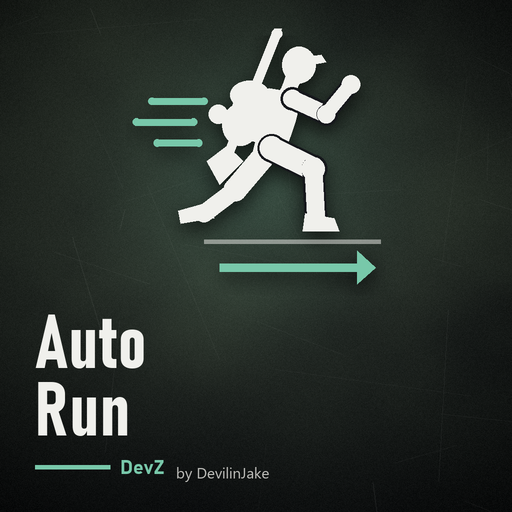
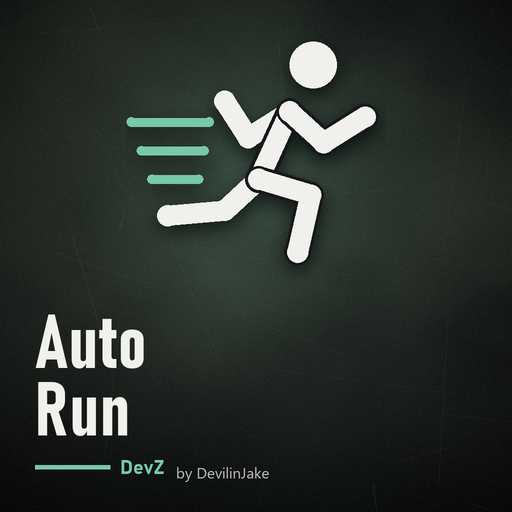
Auto Run: running-man sign on the Workshop card
Replaces the survivor silhouette with a classic running-man pictogram
drawn in the script: a big round head and limbs of one thick round-ended
stroke weight, leaning into a run to the right, with three mint speed
lines behind it, the longest on top. No backpack, rifle, key, ground
line or arrow. The torso and the two near limbs carry a thin dark
keyline so they stay apart from the limbs behind. Checked at full size
and at 160 px.

Changed region(s): [[0.25, 0.0312, 0.75, 0.5625]]

diff --git a/tools/workshop_preview.py b/tools/workshop_preview.py
@@ -415,72 +415,36 @@ class Pict:
         for x, y in zip(pts[::2], pts[1::2]):
             self.d.ellipse(self.p(x - r, y - r, x + r, y + r), fill=color)
 
-    def survivor(self, color, key=DARK, kl=0.9):
-        """A solid silhouette of a survivor sprinting to the right: backpack on, rifle slung
-        across the back. Filled polygons and round-capped strokes in one colour, drawn back to
-        front, so the body, pack and rifle melt into one outline. Only the two limbs nearest
-        the viewer (front arm, front leg) get a thin dark keyline, so they read as their own
-        shapes where they cross the body and the other leg (the keyline vanishes against the
-        dark card). Occupies roughly x 20..90, y 0..80."""
-        def poly(*pts, keyed=False):
-            if keyed:
-                self.d.polygon(self.p(*pts), fill=color, outline=key, width=self.lw(kl))
-            else:
-                self.d.polygon(self.p(*pts), fill=color)
-
-        def cap(pts, w, keyed=False):
+    def runner(self, color, key=DARK, w=8, kl=1.1):
+        """The classic running-man sign: a big round head and limbs of one thick stroke weight
+        with round ends, leaning into a run to the right. Each limb is one polyline (shoulder,
+        elbow, hand / hip, knee, foot) so its joint is a clean bend. Drawn back to front; the
+        torso and the two near limbs get a thin dark keyline so they stay apart from what is
+        behind them (it vanishes against the dark card). Occupies roughly x 24..88, y 10..82."""
+        def limb(pts, keyed=False):
             if keyed:
                 self.stroke(pts, key, w + 2 * kl)
             self.stroke(pts, color, w)
 
-        def ball(x, y, r, keyed=False):
-            if keyed:
-                self.d.ellipse(self.p(x - r - kl, y - r - kl, x + r + kl, y + r + kl), fill=key)
-            self.d.ellipse(self.p(x - r, y - r, x + r, y + r), fill=color)
-
-        # the rifle, behind everything: barrel and front sight up past the shoulder, the butt
-        # showing below the pack, just behind the hip
-        cap([38, 52, 58, 2], 4)                             # barrel and receiver
-        poly(56, 5, 59, 4, 60, -1, 57, 0)                   # front sight
-        poly(31, 51, 39, 45, 45, 51, 36, 60)                # stock
-        # back leg: pushing off, stretched out behind, boot low
-        cap([54, 48, 42, 62], 9)
-        cap([42, 62, 30, 71], 7)
-        poly(31, 67, 34, 73, 21, 75, 20, 70)                # boot, toe pointing back
-        # back arm: swung back, elbow behind the pack, fist out behind it
-        cap([57, 29, 47, 40], 6.5)
-        cap([47, 40, 37, 34], 5)
-        ball(35.5, 33, 3.6)
-        # the backpack: a rounded hump on the back that follows the lean
-        poly(43, 24, 55, 23, 54, 32, 52, 44, 39, 42, 40, 32)
-        self.d.ellipse(self.p(40, 20, 55, 31), fill=color)
-        self.d.ellipse(self.p(37, 29, 51, 45), fill=color)
-        # torso, leaning into the run (shoulders top right, hips lower left)
-        poly(55, 23, 68, 25, 65, 36, 61, 48, 49, 47, 52, 34)
-        # neck, head with a cap peak pointing the way
-        cap([64, 20, 62, 25], 6)
-        self.d.ellipse(self.p(60, 7, 73, 21), fill=color)
-        poly(61, 12, 75, 10, 77, 13, 61, 16)
-        # front leg: thigh driving up and forward, shin down, boot flat ahead
-        cap([56, 46, 72, 54], 9, keyed=True)
-        cap([72, 54, 73, 72], 7, keyed=True)
-        poly(69, 71, 80, 73, 82, 78, 68, 78)                # boot
-        ball(72, 54, 4.5)                                   # knee, over the keylines' notch
-        # front arm: driving forward and up, bent at the elbow, fist
-        cap([64, 27, 77, 33], 7, keyed=True)
-        cap([77, 33, 86, 22], 5.5, keyed=True)
-        ball(86.5, 21.5, 3.6)
-        ball(77, 33, 3.5)                                   # elbow, over the keylines' notch
+        shoulder, hip = (63, 32), (51, 58)
+        # behind: the back arm, bent, upper arm back and forearm angled up behind
+        limb([shoulder[0], shoulder[1], 47, 42, 38, 28])
+        # behind: the back leg, thigh back, shin kicked out almost flat behind
+        limb([hip[0], hip[1], 38, 70, 16, 72])
+        # the torso, leaning forward, and the head above it
+        limb([shoulder[0], shoulder[1], hip[0], hip[1]], keyed=True)
+        self.d.ellipse(self.p(72 - 9, 14 - 9, 72 + 9, 14 + 9), fill=color)
+        # in front: the front leg, thigh forward and up, shin down and back to the foot
+        limb([hip[0], hip[1], 71, 64, 66, 86], keyed=True)
+        # in front: the front arm, bent, forearm reaching forward and a little up
+        limb([shoulder[0], shoulder[1], 76, 44, 92, 34], keyed=True)
 
     def autorun(self):
-        """a survivor sprinting right with speed lines trailing them and an arrow ahead"""
-        self.survivor(self.fg)
-        # speed lines trailing the body
-        for x0, x1, y in [(10, 30, 28), (4, 26, 36), (12, 28, 44)]:
-            self.stroke([x0, y, x1, y], self.accent, 2.8)
-        # the ground, and the arrow: the way ahead
-        self.d.line(self.p(30, 82, 98, 82), fill=self.fg + (130,), width=self.lw(1.8))
-        self.arrow(36, 92, 96, color=self.accent, w=3.4)
+        """the running man, with three speed lines trailing him in the mod's colour"""
+        self.runner(self.fg)
+        # speed lines behind the runner: stacked, the longest on top, round ends
+        for x0, x1, y in [(2, 32, 36), (6, 30, 47), (10, 28, 58)]:
+            self.stroke([x0, y, x1, y], self.accent, 3.6)
 
     def tiles(self, items):
         """A bundle: one small card-like tile per mod, each with that mod's own pictogram and

diff --git a/tools/make_workshop.py b/tools/make_workshop.py
@@ -195,7 +195,7 @@ PICTOGRAMS = {
     "InfectedDamage": "infected",       # claw slashes over a health bar
     "QuickTransfer": "transfer",        # cursor sweeping items from a pack into a crate
     "CrashSafety": "crash",             # a heli tipped over on landing, a car into a wall, hull bar held at 10%
-    "AutoRun": "autorun",               # a Z keycap, a running figure with speed lines, an arrow ahead
+    "AutoRun": "autorun",               # the running-man sign with three speed lines behind it
 }
 # A bundle's picture is one small tile per mod in it, each with that mod's pictogram and colour
 # (filled in from PACKS below).
